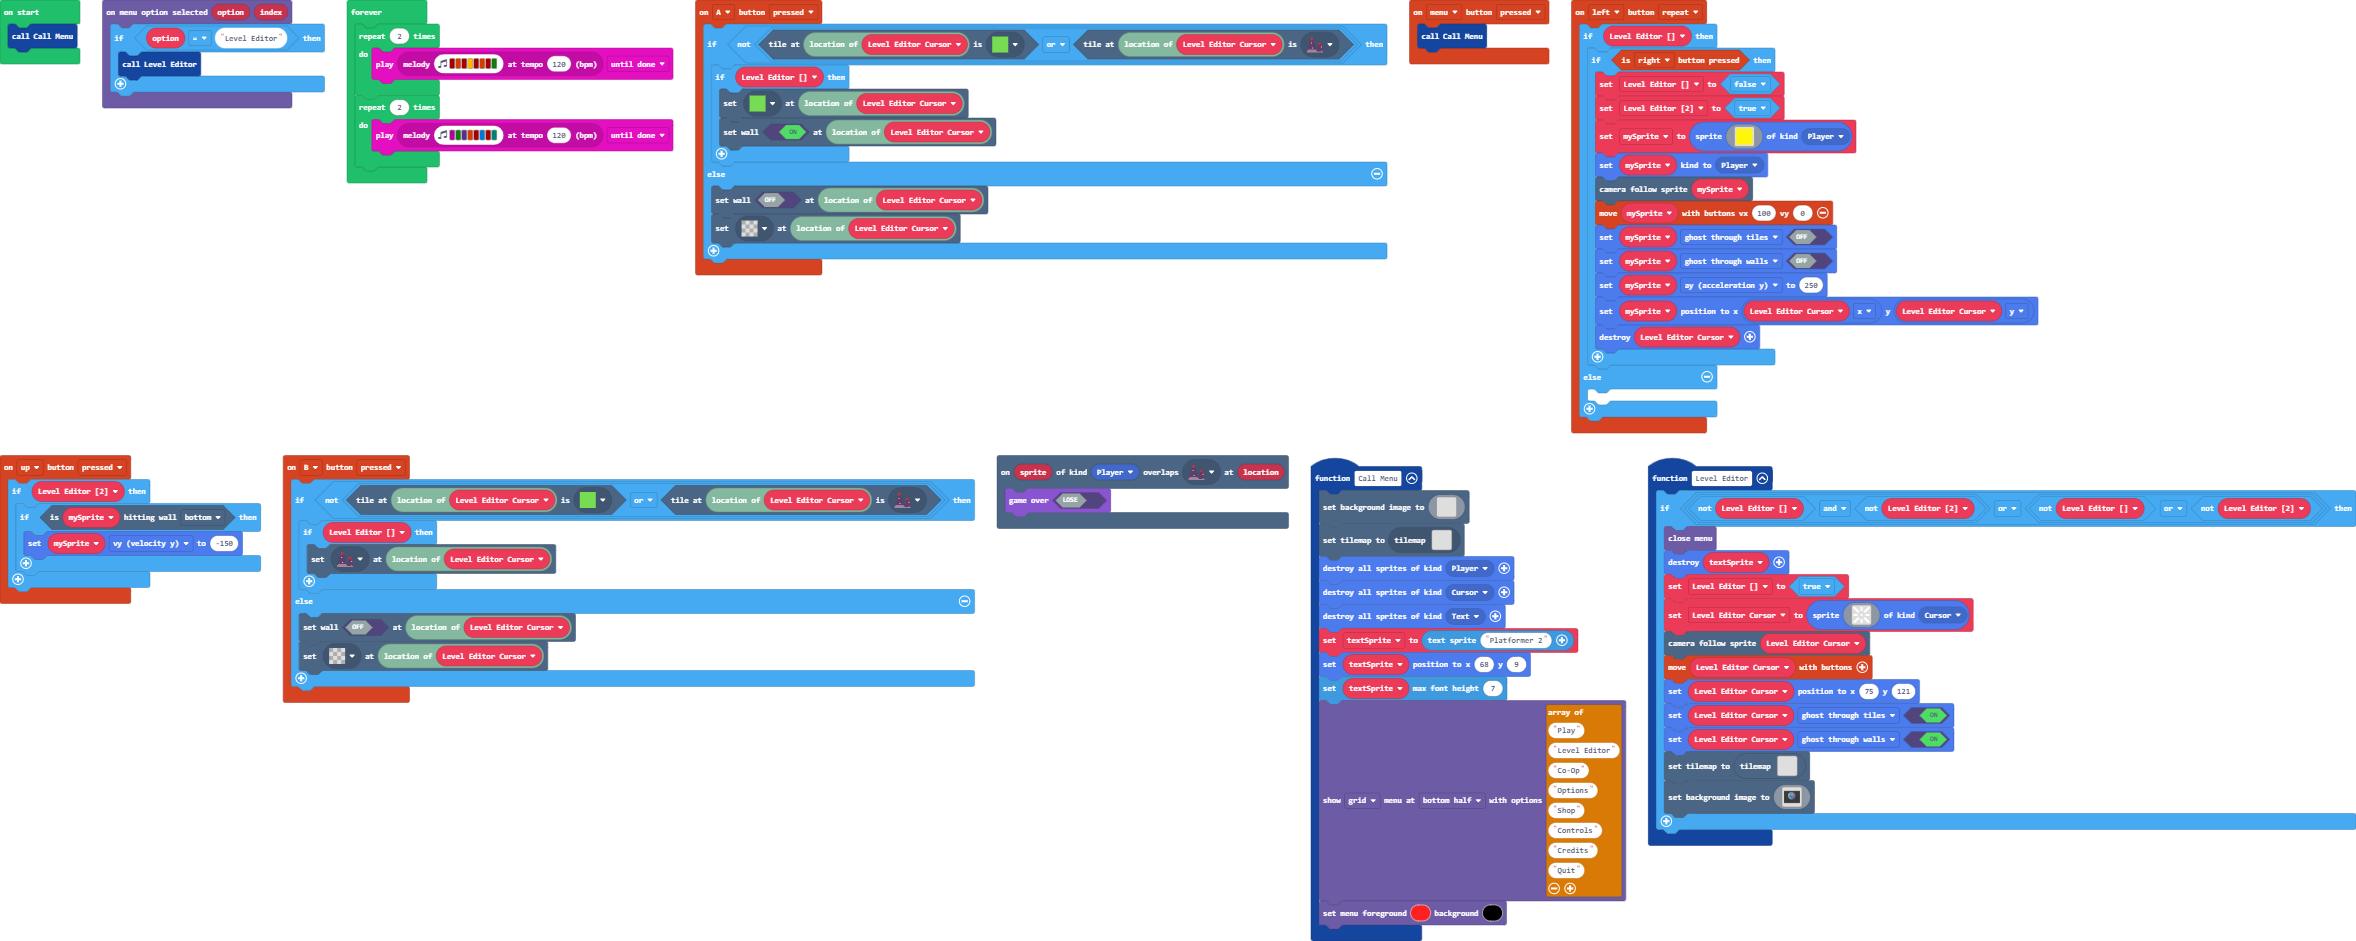
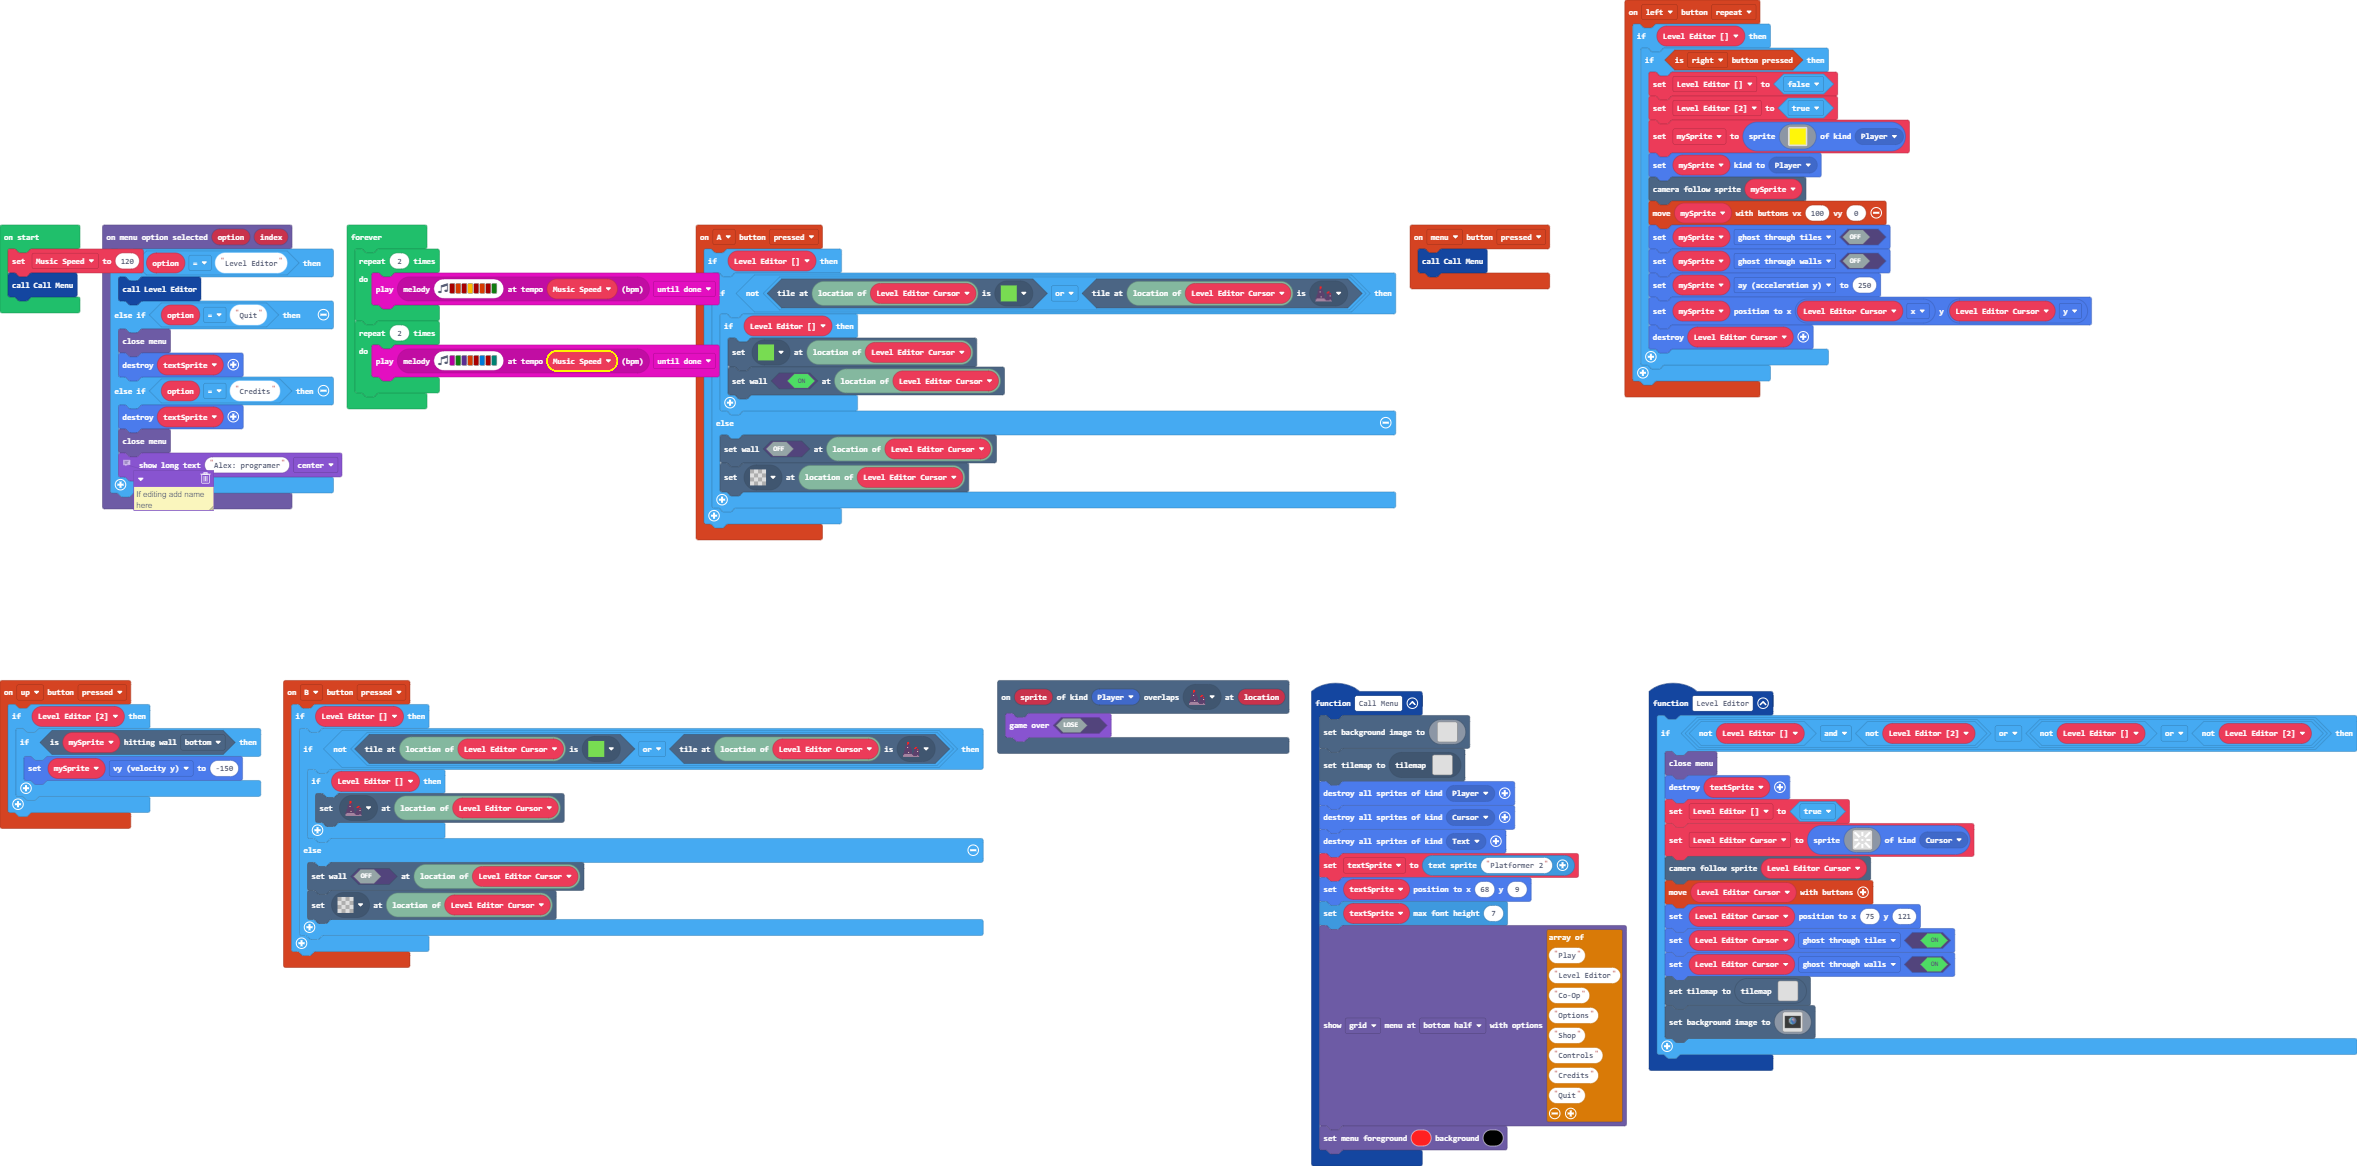
Update main.blocks, main.ts

diff --git a/main.ts b/main.ts
@@ -13,24 +13,28 @@ controller.up.onEvent(ControllerButtonEvent.Pressed, function () {
     }
 })
 controller.B.onEvent(ControllerButtonEvent.Pressed, function () {
-    if (!(tiles.tileAtLocationEquals(tiles.locationOfSprite(Level_Editor_Cursor), assets.tile`myTile`) || tiles.tileAtLocationEquals(tiles.locationOfSprite(Level_Editor_Cursor), assets.tile`myTile0`))) {
-        if (Level_Editor_) {
-            tiles.setTileAt(tiles.locationOfSprite(Level_Editor_Cursor), assets.tile`myTile0`)
+    if (Level_Editor_) {
+        if (!(tiles.tileAtLocationEquals(tiles.locationOfSprite(Level_Editor_Cursor), assets.tile`myTile`) || tiles.tileAtLocationEquals(tiles.locationOfSprite(Level_Editor_Cursor), assets.tile`myTile0`))) {
+            if (Level_Editor_) {
+                tiles.setTileAt(tiles.locationOfSprite(Level_Editor_Cursor), assets.tile`myTile0`)
+            }
+        } else {
+            tiles.setWallAt(tiles.locationOfSprite(Level_Editor_Cursor), false)
+            tiles.setTileAt(tiles.locationOfSprite(Level_Editor_Cursor), assets.tile`transparency16`)
         }
-    } else {
-        tiles.setWallAt(tiles.locationOfSprite(Level_Editor_Cursor), false)
-        tiles.setTileAt(tiles.locationOfSprite(Level_Editor_Cursor), assets.tile`transparency16`)
     }
 })
 controller.A.onEvent(ControllerButtonEvent.Pressed, function () {
-    if (!(tiles.tileAtLocationEquals(tiles.locationOfSprite(Level_Editor_Cursor), assets.tile`myTile`) || tiles.tileAtLocationEquals(tiles.locationOfSprite(Level_Editor_Cursor), assets.tile`myTile0`))) {
-        if (Level_Editor_) {
-            tiles.setTileAt(tiles.locationOfSprite(Level_Editor_Cursor), assets.tile`myTile`)
-            tiles.setWallAt(tiles.locationOfSprite(Level_Editor_Cursor), true)
+    if (Level_Editor_) {
+        if (!(tiles.tileAtLocationEquals(tiles.locationOfSprite(Level_Editor_Cursor), assets.tile`myTile`) || tiles.tileAtLocationEquals(tiles.locationOfSprite(Level_Editor_Cursor), assets.tile`myTile0`))) {
+            if (Level_Editor_) {
+                tiles.setTileAt(tiles.locationOfSprite(Level_Editor_Cursor), assets.tile`myTile`)
+                tiles.setWallAt(tiles.locationOfSprite(Level_Editor_Cursor), true)
+            }
+        } else {
+            tiles.setWallAt(tiles.locationOfSprite(Level_Editor_Cursor), false)
+            tiles.setTileAt(tiles.locationOfSprite(Level_Editor_Cursor), assets.tile`transparency16`)
         }
-    } else {
-        tiles.setWallAt(tiles.locationOfSprite(Level_Editor_Cursor), false)
-        tiles.setTileAt(tiles.locationOfSprite(Level_Editor_Cursor), assets.tile`transparency16`)
     }
 })
 function Call_Menu () {
@@ -334,6 +338,14 @@ function Level_Editor () {
 blockMenu.onMenuOptionSelected(function (option, index) {
     if (option == "Level Editor") {
         Level_Editor()
+    } else if (option == "Quit") {
+        blockMenu.closeMenu()
+        sprites.destroy(textSprite)
+    } else if (option == "Credits") {
+        sprites.destroy(textSprite)
+        blockMenu.closeMenu()
+        // If editing add name here
+        game.showLongText("Alex: programer", DialogLayout.Center)
     }
 })
 controller.left.onEvent(ControllerButtonEvent.Repeated, function () {
@@ -368,21 +380,20 @@ controller.left.onEvent(ControllerButtonEvent.Repeated, function () {
             mySprite.setPosition(Level_Editor_Cursor.x, Level_Editor_Cursor.y)
             sprites.destroy(Level_Editor_Cursor)
         }
-    } else {
-    	
     }
 })
 let textSprite: TextSprite = null
-let Level_Editor_ = false
 let Level_Editor_Cursor: Sprite = null
+let Level_Editor_ = false
 let mySprite: Sprite = null
 let Level_Editor_2 = false
+let Music_Speed = 120
 Call_Menu()
 forever(function () {
     for (let index = 0; index < 2; index++) {
-        music.play(music.stringPlayable("C5 B C5 A C5 B C5 G ", 120), music.PlaybackMode.UntilDone)
+        music.play(music.stringPlayable("C5 B C5 A C5 B C5 G ", Music_Speed), music.PlaybackMode.UntilDone)
     }
     for (let index = 0; index < 2; index++) {
-        music.play(music.stringPlayable("C G D B C5 E C5 F ", 120), music.PlaybackMode.UntilDone)
+        music.play(music.stringPlayable("C G D B C5 E C5 F ", Music_Speed), music.PlaybackMode.UntilDone)
     }
 })
